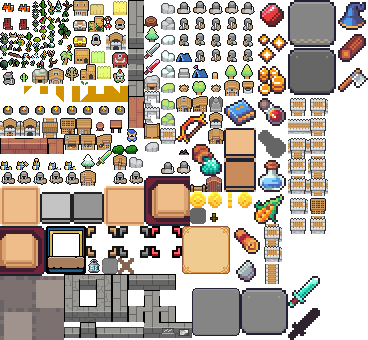
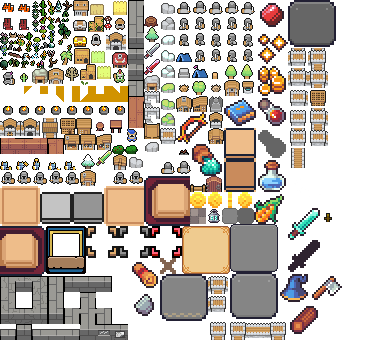
interior work

Changed region(s): [[0.0, 0.0, 1.0, 1.0]]

diff --git a/ts/src/server/replicatedEntitiesSystem.ts b/ts/src/server/replicatedEntitiesSystem.ts
@@ -1,6 +1,10 @@
 import { EcsSystem } from "../common/ecs/ecsSystem.js";
 import { JobQueueComponentId } from "../game/component/jobQueueComponent.js";
-import type { GameMessage } from "./message/gameMessage.js";
+import { Entity } from "../game/entity/entity.js";
+import type {
+    GameMessage,
+    ReplicatedEntityData,
+} from "./message/gameMessage.js";
 
 export function makeReplicatedEntitiesSystem(
     postMessage: (message: GameMessage) => void,
@@ -32,14 +36,16 @@ export function makeReplicatedEntitiesSystem(
                 if (event.target.isGameRoot) {
                     return;
                 }
+
+                const children = buildChildrenData(event.target);
+
                 postMessage({
                     type: "addEntity",
-                    entity: {
-                        id: event.target.id,
-                        parent: event.target.parent?.id,
-                        position: event.target.worldPosition,
-                    },
+                    id: event.target.id,
+                    parent: event.target.parent?.id,
+                    position: event.target.worldPosition,
                     components: event.target.components,
+                    children: children.length > 0 ? children : undefined,
                 });
             },
             child_removed: (_root, event) => {
@@ -54,4 +60,30 @@ export function makeReplicatedEntitiesSystem(
             },
         },
     };
+}
+
+/**
+ * Recursively build the children data for an entity
+ */
+function buildChildrenData(entity: Entity): ReplicatedEntityData[] {
+    const children: ReplicatedEntityData[] = [];
+
+    for (const child of entity.children) {
+        const childData: ReplicatedEntityData = {
+            id: child.id,
+            parent: child.parent?.id,
+            position: child.worldPosition,
+            components: child.components,
+        };
+
+        // Recursively gather nested children
+        const nestedChildren = buildChildrenData(child);
+        if (nestedChildren.length > 0) {
+            childData.children = nestedChildren;
+        }
+
+        children.push(childData);
+    }
+
+    return children;
 }

diff --git a/ts/src/server/message/gameMessageHandler.ts b/ts/src/server/message/gameMessageHandler.ts
@@ -8,6 +8,7 @@ import {
     TransformGameMessageType,
     type AddEntityGameMessage,
     type EffectGameMessage,
+    type ReplicatedEntityData,
     type GameMessage,
     type RemoveEntityGameMessage,
     type SetComponentGameMessage,
@@ -39,18 +40,44 @@ export function handleGameMessage(root: Entity, message: GameMessage) {
 
 function addEntityHandler(root: Entity, message: AddEntityGameMessage) {
     let parent = root;
-    if (message.entity.parent) {
-        const entityWithId = root.findEntity(message.entity.parent);
+    if (message.parent) {
+        const entityWithId = root.findEntity(message.parent);
         if (entityWithId) {
             parent = entityWithId;
         }
     }
 
-    const newEntity = new Entity(message.entity.id);
+    const newEntity = new Entity(message.id);
     parent.addChild(newEntity);
-    newEntity.worldPosition = message.entity.position;
+    newEntity.worldPosition = message.position;
     for (const component of message.components) {
         newEntity.setEcsComponent(component);
+    }
+
+    // Recursively add children
+    if (message.children && message.children.length > 0) {
+        addChildren(newEntity, message.children);
+    }
+}
+
+/**
+ * Recursively add children to an entity
+ */
+function addChildren(parent: Entity, children: ReplicatedEntityData[]) {
+    for (const childData of children) {
+        const childEntity = new Entity(childData.id);
+        parent.addChild(childEntity);
+        childEntity.worldPosition = childData.position;
+
+        // Add components to child
+        for (const component of childData.components) {
+            childEntity.setEcsComponent(component);
+        }
+
+        // Recursively add nested children
+        if (childData.children && childData.children.length > 0) {
+            addChildren(childEntity, childData.children);
+        }
     }
 }
 

diff --git a/ts/src/game/prefab/interiorPrefab.ts b/ts/src/game/prefab/interiorPrefab.ts
@@ -5,19 +5,20 @@ import { Entity } from "../entity/entity.js";
 
 export function interiorPrefab(id: string): Entity {
     const interiorEntity = new Entity(id);
+
+    for (const point of floors) {
+        const entity = new Entity(generateId("wall"));
+        entity.worldPosition = point;
+        entity.setEcsComponent(createSpriteComponent(sprites2.interior_floor));
+        interiorEntity.addChild(entity);
+    }
+
     for (const point of walls) {
         const entity = new Entity(generateId("wall"));
         entity.worldPosition = point;
         entity.setEcsComponent(
             createSpriteComponent(sprites2.interior_wood_wall_right_left),
         );
-        interiorEntity.addChild(entity);
-    }
-
-    for (const point of floors) {
-        const entity = new Entity(generateId("wall"));
-        entity.worldPosition = point;
-        entity.setEcsComponent(createSpriteComponent(sprites2.interior_floor));
         interiorEntity.addChild(entity);
     }
 
@@ -30,7 +31,7 @@ export function interiorPrefab(id: string): Entity {
 
     const tableEntity = new Entity(generateId("table"));
     tableEntity.worldPosition = { x: 2, y: 2 };
-    tableEntity.setEcsComponent(createSpriteComponent(sprites2.interior_door));
+    tableEntity.setEcsComponent(createSpriteComponent(sprites2.interior_table));
     interiorEntity.addChild(tableEntity);
 
     const doorEntity = new Entity(generateId("door"));

diff --git a/ts/src/server/message/gameMessage.ts b/ts/src/server/message/gameMessage.ts
@@ -21,15 +21,17 @@ export const TransformGameMessageType = "transform";
 export const EffectGameMessageType = "effect";
 export const CommandGameMessageType = "command";
 
+export type ReplicatedEntityData = {
+    id: string;
+    position: Point;
+    parent?: string;
+    components: readonly Components[];
+    children?: ReplicatedEntityData[];
+};
+
 export type AddEntityGameMessage = {
     type: typeof AddEntityGameMessageType;
-    entity: {
-        id: string;
-        position: Point;
-        parent?: string;
-    };
-    components: readonly Components[];
-};
+} & ReplicatedEntityData;
 
 export type RemoveEntityGameMessage = {
     type: typeof RemoveEntityGameMessageType;
